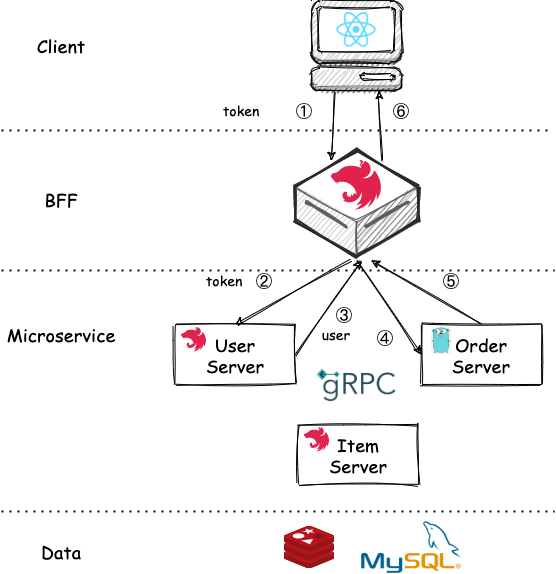
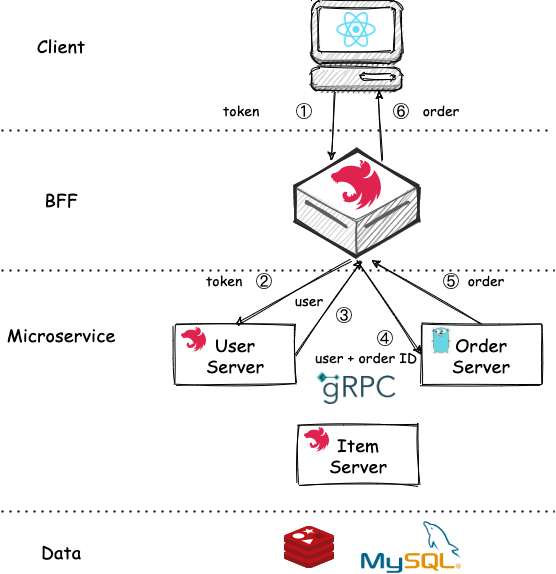
add taolj 2

diff --git a/source/_posts/nest-microservice-2.md b/source/_posts/nest-microservice-2.md
@@ -12,9 +12,9 @@ description: Nest.js 微服务实战第二篇
 
 # 前言
 
-[上篇文章]()搭建好了我们的微服务系统框架，今天我们来把用户认证加上。
+[上篇文章](/2023/01/18/nest-microservice-1/)搭建好了我们的微服务系统框架，今天我们来把用户认证加上。
 
-# 用户认证
+# 用户认证流程
 
 首先，我们添加一个 User Server 的微服务，则我们的架构演变成这样：
 
@@ -39,3 +39,139 @@ description: Nest.js 微服务实战第二篇
 如果认证失败，则 BFF 直接返回错误：
 
 ![](./nest-microservice-2/authentication-error.png)
+
+接下来，看看关键部分的代码是怎么实现的。
+
+# 关键代码
+
+在 Nest.js 中，用户认证一般可以通过 `Guard` 来实现，比如上面的功能就可以写成这样：
+
+```ts
+export class JwtAuthGuard implements CanActivate {
+  constructor(private readonly userService: UserService) {}
+  async canActivate(context: ExecutionContext): Promise<boolean> {
+    const ctx = GqlExecutionContext.create(context)
+    const req = ctx.getContext().res.req
+    const headers = req.headers
+    if (!headers.authorization) return false
+    const token = headers.authorization.split(' ')[1]
+    try {
+      const user = await this.userService.verify(token)
+      if (user) {
+        req.user = user
+        return true
+      }
+    } catch (error) {
+      return false
+    }
+  }
+}
+```
+
+在 Order Server 的 `resolver` 中可以像这样来使用：
+
+```ts
+@Resolver(() => Order)
+@UseGuards(JwtAuthGuard)
+export class OrderResolver {
+  constructor(
+    private readonly orderService: OrderService,
+    private readonly itemService: ItemService
+  ) {}
+
+  @Query(() => Order)
+  async order(
+    @Args('id', {type: () => ID}) id: number,
+    @CurrentUser() user: User
+  ) {
+    const order = await this.orderService.findOne(id)
+    return order
+  }
+}
+```
+
+其中，`CurrentUser` 是自定义的一个装饰器，当认证成功时从 `request` 里面获取 `user`：
+
+```ts
+import {createParamDecorator, ExecutionContext} from '@nestjs/common'
+import {GqlExecutionContext} from '@nestjs/graphql'
+
+export const CurrentUser = createParamDecorator(
+  (data, context: ExecutionContext) => {
+    const ctx = GqlExecutionContext.create(context)
+    const req = ctx.getContext().res.req
+    return req.user
+  }
+)
+```
+
+接下来，我们来看看客户端要怎么做。
+
+首先，我们开发一个登录的页面：
+
+```js
+function Login() {
+  const [login, {data, loading, error}] = useMutation<
+    {login: string},
+    LoginParam
+  >(
+    gql`
+      mutation LoginMutation($username: String!, $password: String!) {
+        login(username: $username, password: $password)
+      }
+    `
+  )
+
+  const onFinish = async (values: LoginParam) => {
+    const {data} = await login({variables: values})
+    if (data?.login) localStorage.setItem('token', data.login)
+  }
+
+  return (
+    <Form
+      name='form'
+      onFinish={onFinish}
+      footer={
+        <Button block type='submit' color='primary' size='large'>
+          提交
+        </Button>
+      }>
+      ...
+    </Form>
+  )
+}
+```
+
+这里使用的是 GraphQL 中的 `mutation` 来进行登录，则 User Server 中的 `resolver` 也要改一下：
+
+```js
+@Mutation(() => String)
+async login(
+  ...
+```
+
+登录完成后，我们把 `token` 存在 `localStorage` 中。接下来要做的就是让请求的时候头部带上这个 `token`，这个通过 `@apollo/client` 的 `link` 来实现：
+
+```js
+const httpLink = createHttpLink({
+  uri: '/graphql',
+})
+
+const authLink = setContext((_, {headers}) => {
+  const token = localStorage.getItem('token')
+
+  return {
+    headers: {
+      ...headers,
+      authorization: token ? `Bearer ${token}` : '',
+    },
+  }
+})
+
+const client = new ApolloClient({
+  link: authLink.concat(httpLink),
+  cache: new InMemoryCache(),
+})
+```
+
+到此，用户认证就基本完成了，完整代码见[这里](https://github.com/ParadeTo/taolj/tree/feature-user-server)。
